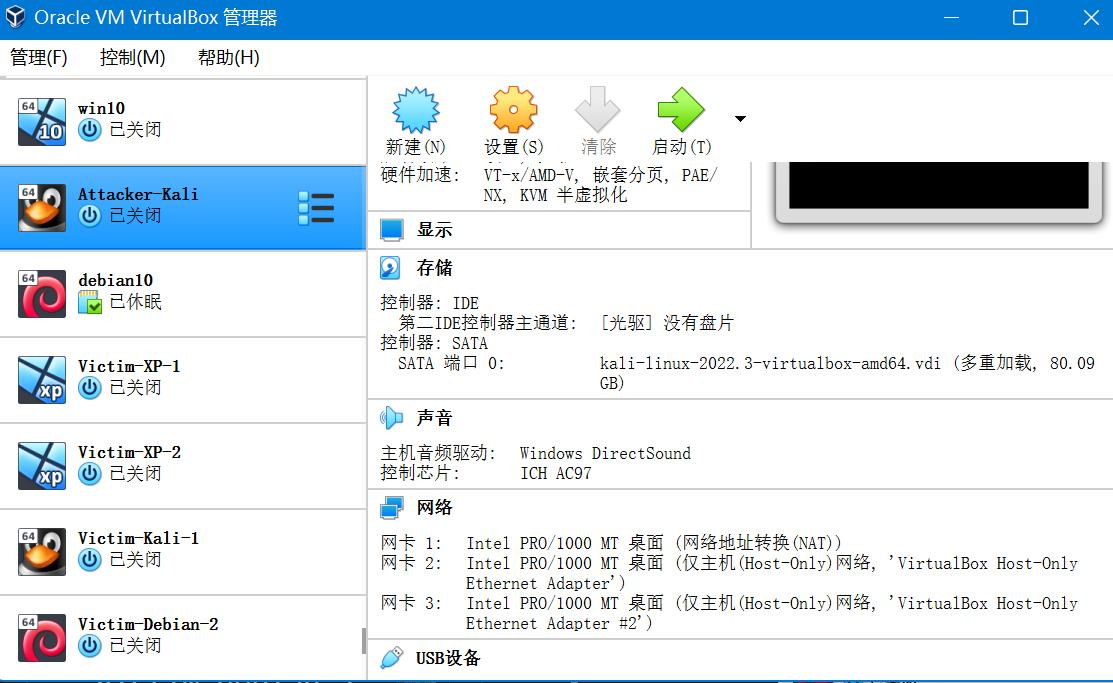
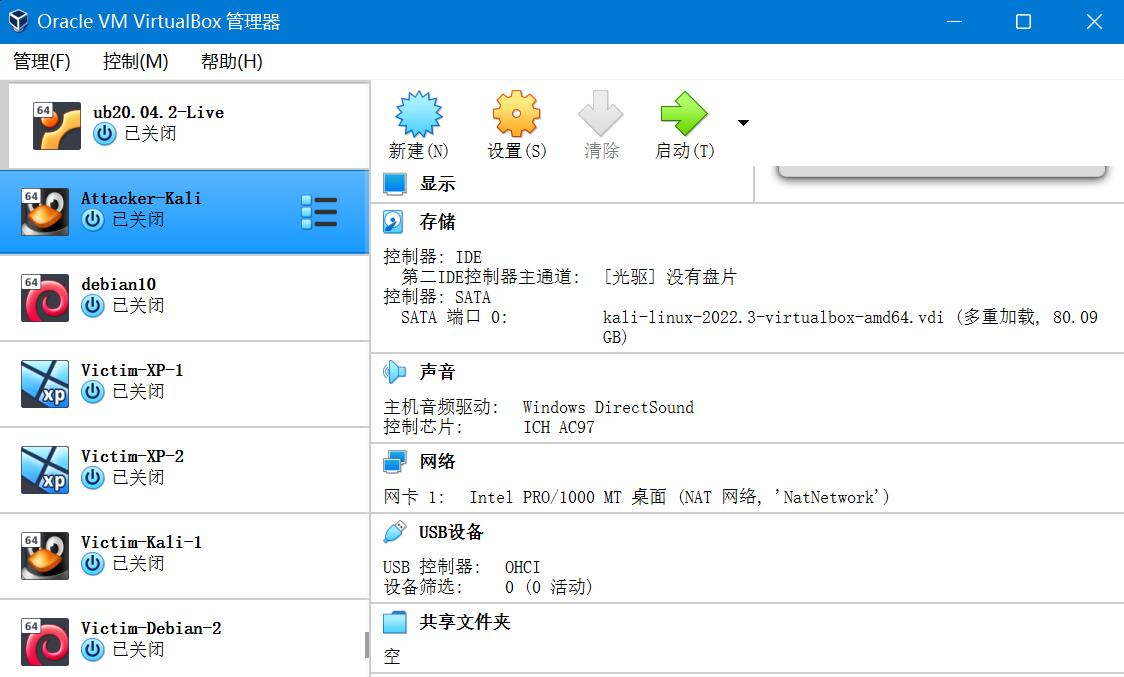
修改完善。

Changed region(s): [[0.0, 0.0, 1.0, 1.0]]

diff --git a/chap0x01/chap0x01-report.md b/chap0x01/chap0x01-report.md
@@ -38,8 +38,8 @@
 ![](img/网络设置.jpg)
 ![](img/主机网络管理器.jpg)
 - **攻击者**需三块网卡
-    - NAT网络;
-    - 两块不同的Host-Only.
+    - NAT网络
+    - 两块不同的Host-Only
 ![](img/attacker网络.jpg)
 - **靶机**都需一块网卡
     - 内部网络，使不同组的victim在不同局域网内；
@@ -51,13 +51,62 @@
 | 节点 | ip地址 |
 | :----:| :----: |
 | Kali-Attacker | 10.0.2.15 | 
-| Kali-Victim1 | 172.16.111.128 | 
+| Kali-Victim1 | 172.16.111.125 | 
 | Windows XP-Victim1 | 172.16.111.140 | 
-| Debian10-Victim2 | 172.16.222.112 | 
+| Debian10-Victim2 | 172.16.222.118 | 
 | Windows XP-Victim2 | 172.16.222.112 | 
 
 ![](img/xpip1.png)
 ![](img/xpip2.png)
+![](img/victim-kali-ip.png)
+![](img/victim-debian-ip.png)
+![](img/Attacker-kali-ip.png)
+
+- 靶机可以直接访问攻击者主机
+![](img/xp1-ping-attacker.png)
+![](img/xp2-ping-attacker.png)
+![](img/victimkali-ping-attacker.png)
+![](img/victimdebian-ping-attacker.png)
+
+- 攻击者主机无法直接访问靶机
+![](img/attacker-ping-fail.png)
+
+- 网关可以直接访问攻击者主机和靶机
+![](img/gate-ping-attacker.png)
+![](img/gateway-ping-victim1.png)
+![](img/gateway-ping-victim2.png)
+
+- 靶机的所有对外上下行流量必须经过网关
+
+安装`tcpdump`，并对对应网卡进行监控。在各个节点上访问互联网，观察捕获到了上下行的所有包。
+```
+apt update && apt install tcpdump
+/usr/sbin/tcpdump -i enp0s9(对应网卡) # etc
+```
+
+- 所有节点均可以访问互联网
+    - 网关
+    - 攻击者
+    - 局域网 1 内的靶机
+    - 局域网 2 内的靶机
+
 
 ## 遇到的问题及解决方案
+- **问题**：
+启动 XP-Victim1 和 XP-Victim2 两台虚拟机时，无法发现本地网络。<br/>
+**解决方案**：
+将网卡选择为 PCnet-FAST III，问题解决。
+
+- **问题**：
+NAT 网络无效设置<br/>
+**解决方案**：
+管理 -> 全局设定 -> 网络，添加 NatNetwork，问题解决。
+
+- **问题**：
+ping 不通 XP-Victim1 和 XP-Victim2 两台虚拟机<br/>
+**解决方案**：
+关闭 xp 系统的防火墙，问题解决。
+
 ## 参考资料
+http://courses.cuc.edu.cn/course/90732/learning-activity/full-screen#/378195
+http://courses.cuc.edu.cn/course/90732/learning-activity/full-screen#/378192
